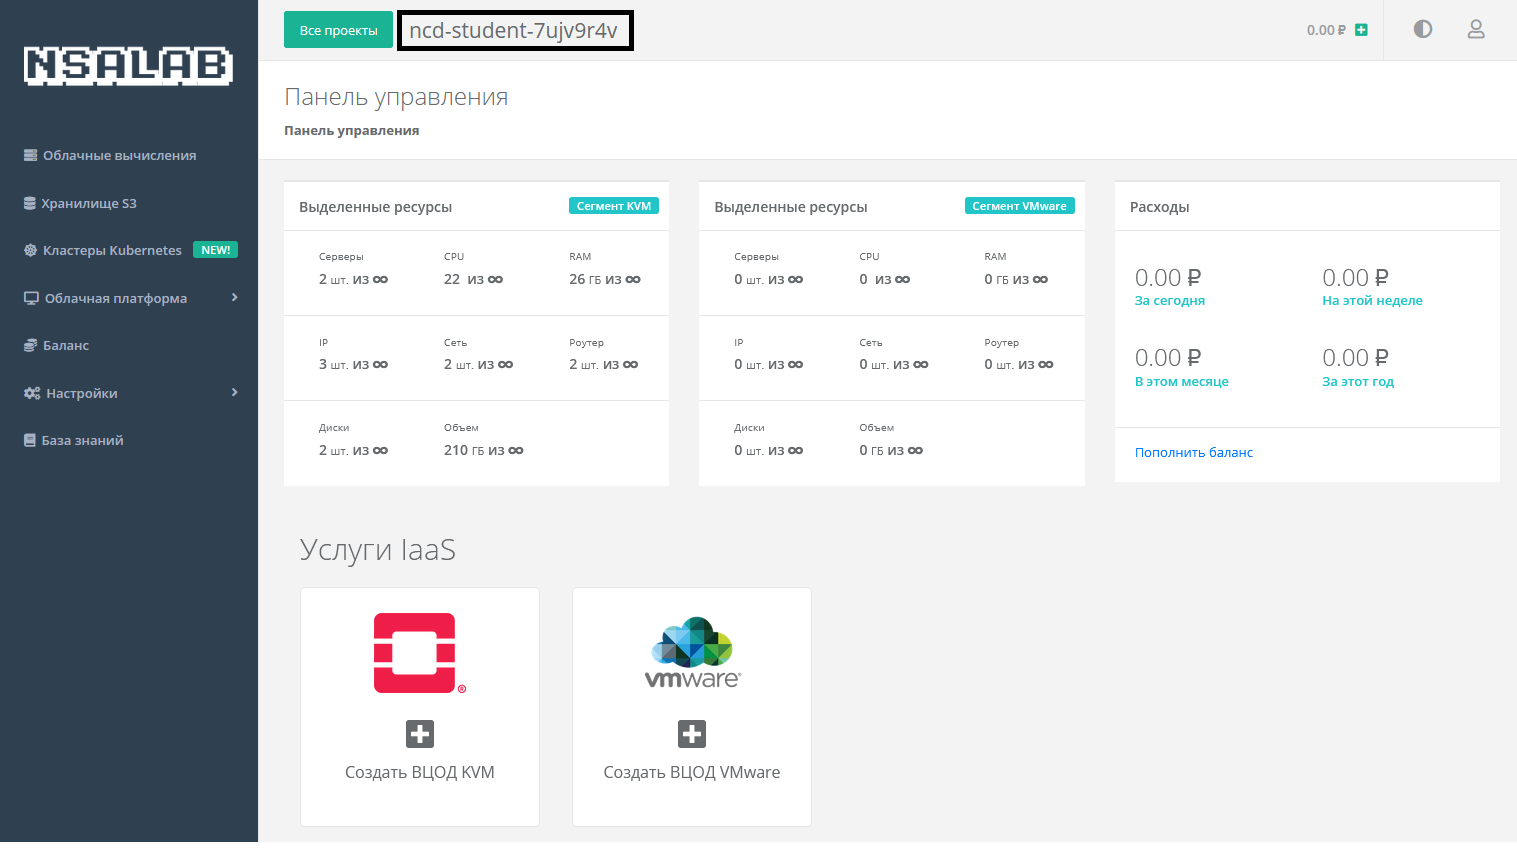
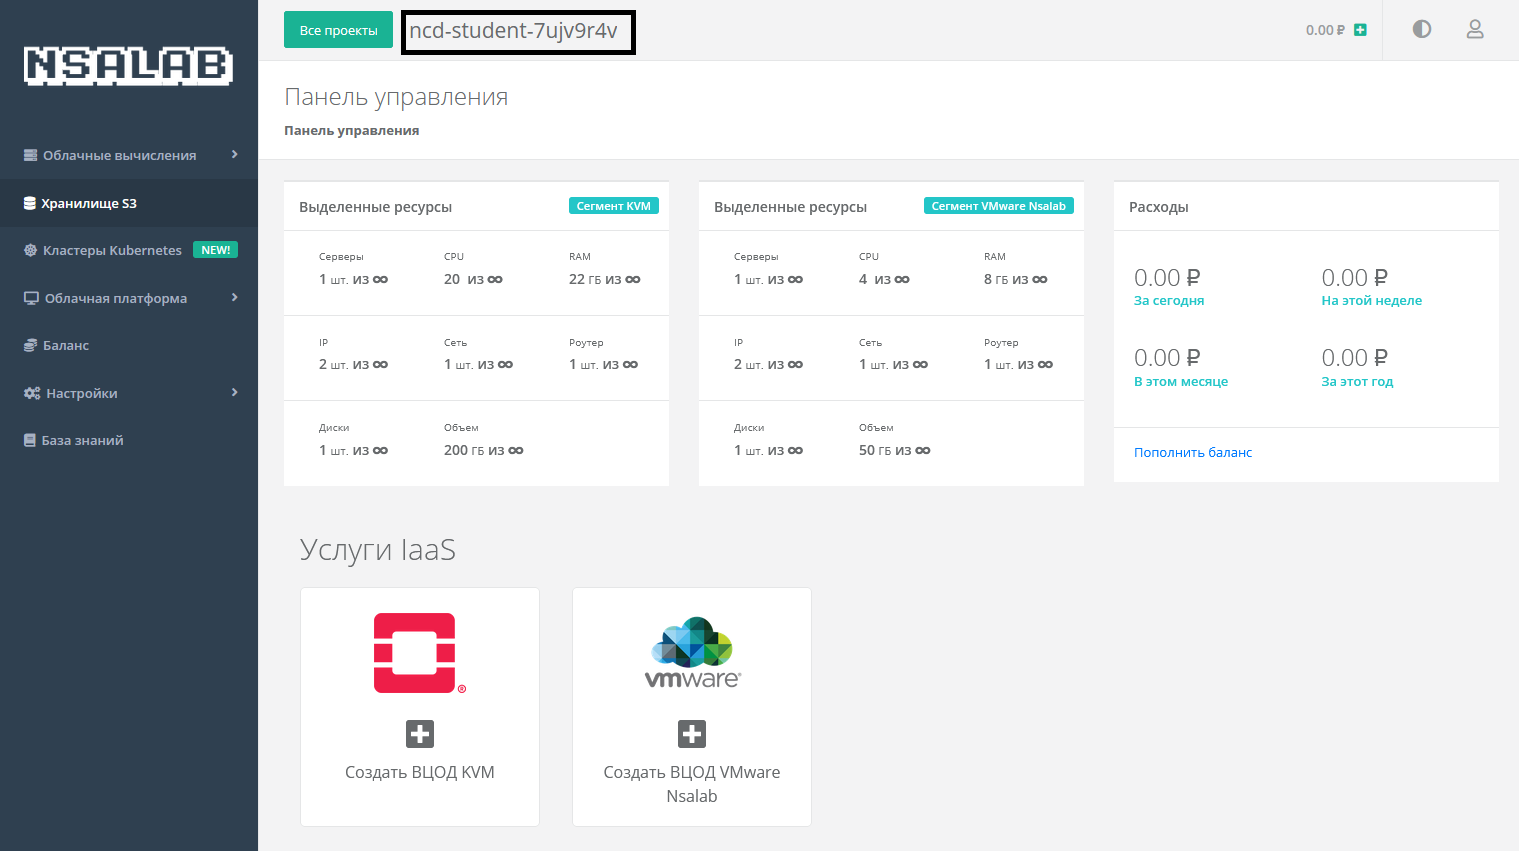
fixed kvm to vmware

diff --git a/testProject.md b/testProject.md
@@ -16,7 +16,7 @@
 
 ![](./assets/2.png)
 
-В разделе **Услуги IaaS** нажмите на **Создать ВЦОД KVM**. Справа появится плитка под названием **ВЦОД KVM**. После того как ВЦОД будет создан, нажмите на него, чтобы перейти к ресурсам.
+В разделе **Услуги IaaS** нажмите на **Создать ВЦОД VMware NSALAB**. Справа появится плитка под названием **VMware NSALAB**. После того как ВЦОД будет создан, нажмите на него, чтобы перейти к ресурсам.
 
 ![](./assets/3.png)
 
